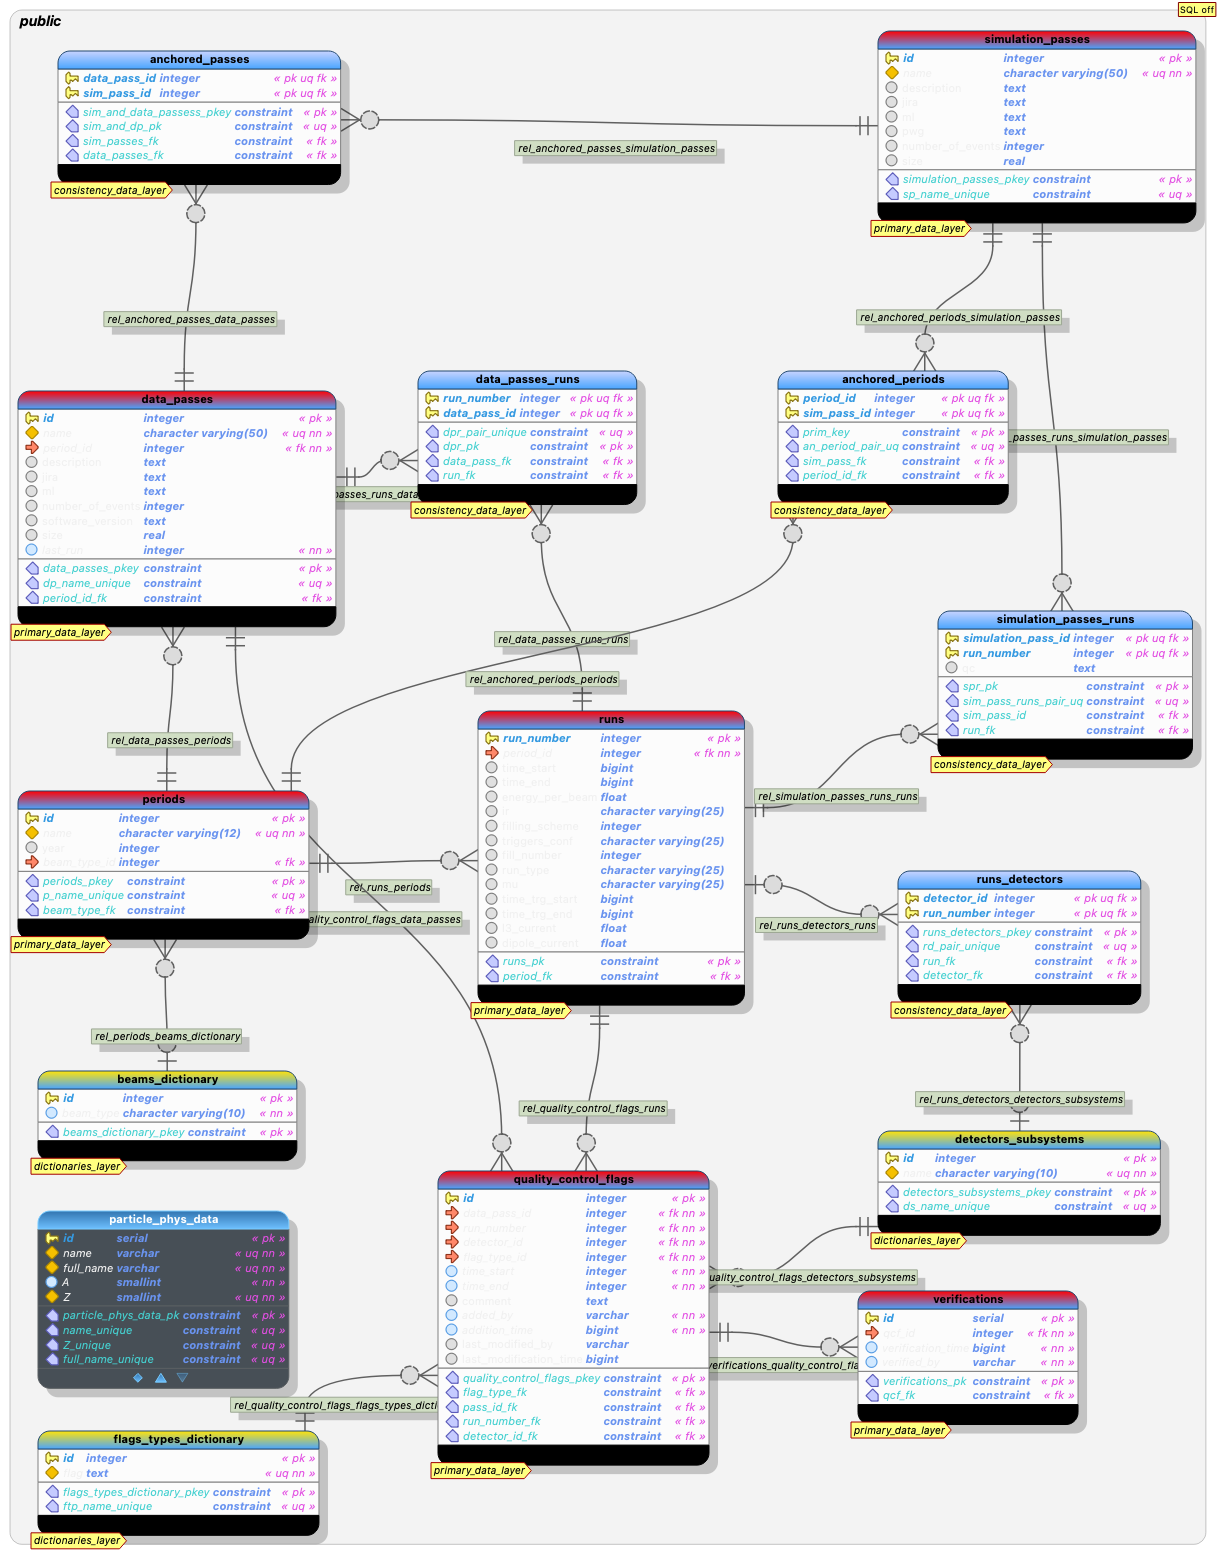
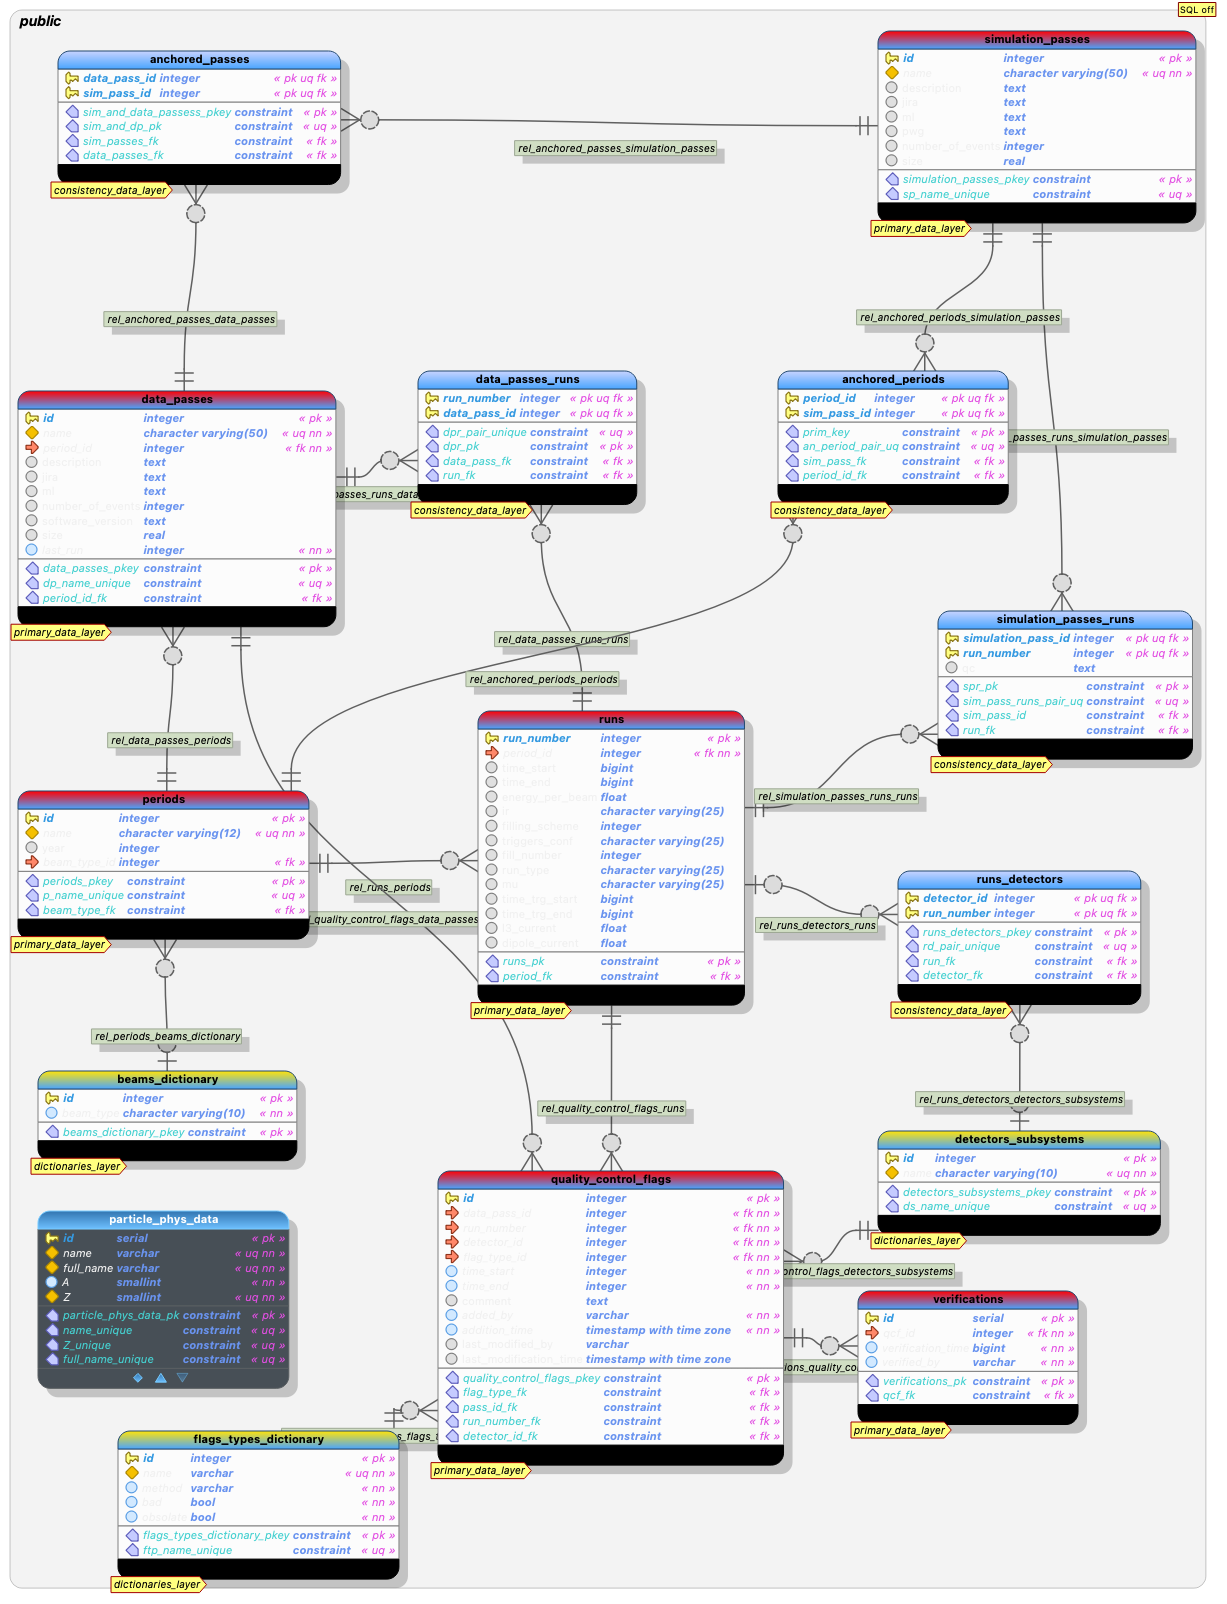
Qc backend (#111)

diff --git a/app/lib/database/procedures/flags.js b/app/lib/database/procedures/flags.js
@@ -1,0 +1,72 @@
+/**
+ * @license
+ * Copyright 2019-2020 CERN and copyright holders of ALICE O2.
+ * See http://alice-o2.web.cern.ch/copyright for details of the copyright holders.
+ * All rights not expressly granted are reserved.
+ *
+ * This software is distributed under the terms of the GNU General Public
+ * License v3 (GPL Version 3), copied verbatim in the file "COPYING".
+ *
+ * In applying this license CERN does not waive the privileges and immunities
+ * granted to it by virtue of its status as an Intergovernmental Organization
+ * or submit itself to any jurisdiction.
+ */
+
+const flag_insert = (query) => `
+    DO                            
+    $do$
+    DECLARE pass_id integer;
+    DECLARE det_id integer;
+    DECLARE flag_id integer;
+    BEGIN
+        select id into pass_id from data_passes where name = '${query.data_pass_name}';
+        select id into det_id from detectors_subsystems where name = '${query.detector}';
+        select id into flag_id from flags_types_dictionary where name = '${query.flag_type}';
+
+        INSERT INTO quality_control_flags (data_pass_id, run_number, detector_id, flag_type_id, 
+            time_start, time_end, comment, added_by, addition_time, last_modified_by, last_modification_time)
+        VALUES(pass_id, ${query.run_number}, det_id, flag_id, 
+            ${query.time_start}, ${query.time_end}, '${query.comment}', '${query.added_by}', now(), null, null);
+    END
+    $do$;
+`;
+
+const flag_update = (query) => {
+    return 'NOT IMPLEMENTED PLEASE REMOVE OLD FLAG INSTANCE';
+    `
+    DO                            
+    $do$
+    BEGIN
+        INSERT INTO quality_control_flags (data_pass_id, run_number, detector_id, flag_type_id, 
+            time_start, time_end, comment, added_by, addition_time, last_modified_by, last_modification_time)
+        VALUES(pass_id, ${query.run_number}, det_id, flag_id, 
+            ${query.time_start}, ${query.time_end}, '${query.comment}', '${query.added_by}', now(), null, null);
+    END
+    $do$;
+`;
+}
+const flag_delete = (query) => `
+    DO                            
+    $do$
+    BEGIN
+        DELETE FROM quality_control_flags where id = ${query.qcf_id};
+    END
+    $do$;
+`;
+
+const verification_insert = (query) => `
+DO                            
+$do$
+BEGIN
+    INSERT INTO verifications (qcf_id, verification_time, verified_by)
+    VALUES(${query.qcf_id}, now(), '${query.by}');
+END
+$do$;
+`;
+
+module.exports = {
+    flag_insert,
+    flag_delete,
+    flag_update,
+    verification_insert
+};

diff --git a/app/lib/database/DatabaseService.js b/app/lib/database/DatabaseService.js
@@ -149,8 +149,35 @@ class DatabaseService {
         }
 
         try {
-            const query = QueryBuilder.build(params);
+            const query = QueryBuilder.buildSelect(params);
             await this.pgExec(query, connectErrorHandler, dbResponseHandler, dbResErrorHandler);
+        } catch (e) {
+            this.logger.error(e.stack)
+            this.responseWithStatus(res, 400, e)
+        }
+    }
+
+
+    async pgExecDataInsert(req, res) {
+        this.checkToken(req, res);
+        const dbResponseHandler = (dbRes) => {
+            return res.json({data: dbRes})
+        }
+        const dbResErrorHandler = (e) => {
+            this.logger.error(e.message + ' :: ' + e.stack)
+            this.responseWithStatus(res, 500, e.code);
+        }
+        const connectErrorHandler = (connectErr) => {
+            this.logger.error('Error acquiring client:: ' + connectErr.stack)
+            this.responseWithStatus(res, 500, connectErr.message);
+        }
+        
+        try {
+            await this.pgExec(
+                QueryBuilder.buildInsert(params), 
+                connectErrorHandler, 
+                dbResponseHandler, 
+                dbResErrorHandler);
         } catch (e) {
             this.logger.error(e.stack)
             this.responseWithStatus(res, 400, e)

diff --git a/app/lib/database/views/flags_view.js b/app/lib/database/views/flags_view.js
@@ -12,11 +12,24 @@
  * or submit itself to any jurisdiction.
  */
 
-const flags_view = (query) => `
+const flags_view = (query) => {
+    
+    rn = query.run_numbers;
+    let rn_sql = null;
+    if (typeof(rn) === 'object') {
+        rn_sql = rn.join(",");
+    } else if (typeof(rn) === 'string') {
+        rn_sql = rn
+    } else {
+        throw `run_number seems to be incorrect ${rn}`
+    }
+    
+    return `
+    SELECT
         qcf.id, 
         qcf.time_start, 
         qcf.time_end, 
-        ftd.flag, 
+        ftd.name, 
         qcf.comment,
         r.run_number,
         ds.name,
@@ -36,10 +49,11 @@ const flags_view = (query) => `
         LEFT OUTER JOIN verifications as v
             ON qcf.id = v.qcf_id
 
-        WHERE r.run_number in (${query.run_numbers.join(",")}) AND 
-            dp.name = ${query.data_pass_id}
-        GROUP BY qcf.id, qcf.time_start, qcf.time_end, ftd.flag, qcf.comment, r.run_number, ds.name
+        WHERE r.run_number in (${rn_sql}) AND 
+            dp.name = ${query.data_pass_name}
+        GROUP BY qcf.id, qcf.time_start, qcf.time_end, ftd.name, qcf.comment, r.run_number, ds.name
 
     `;
+}
 
 module.exports = flags_view;

diff --git a/app/lib/database/QueryBuilder.js b/app/lib/database/QueryBuilder.js
@@ -13,8 +13,10 @@
  */
 
 const config = require('../config/configProvider.js');
-const views = require("./views") 
-const { pagesNames: PN } = config.public;
+const views = require('./views');
+const procedures = require('./procedures')
+
+const { pagesNames: PN, procedures: PC } = config.public;
 const DRP = config.public.dataReqParams;
 
 const pageToViewName = {};
@@ -82,7 +84,7 @@ class QueryBuilder {
         return sqlWhereClause?.length > 0 ? `WHERE ${sqlWhereClause}` : '';
     }
 
-    static build(params) {
+    static buildSelect(params) {
         
         const dataSubsetQueryPart = (params) => params[DRP.countRecords] === 'true' ? '' :
             `LIMIT ${params[DRP.rowsOnSite]} OFFSET ${params[DRP.rowsOnSite] * (params[DRP.site] - 1)}`;
@@ -113,6 +115,9 @@ class QueryBuilder {
                 ${dataSubsetQueryPart(params)};`;
     }
 
+    static buildInsertOrUpdate(params) {
+        return procedures[params.procedure](params)
+    }
 }
 
 module.exports = QueryBuilder;

diff --git a/app/config/databasePersistance.js b/app/config/databasePersistance.js
@@ -14,7 +14,7 @@
 /* eslint-disable max-len */
 
 const detectors = require('./detectors.js');
-
+const flags = require('./flagsDefinitions.json')
 const particle_phys_data = {
     p: {
         full_name: 'proton',
@@ -51,6 +51,11 @@ module.exports = {
             description: 'particles dict insert',
             query: Object.entries(particle_phys_data).map(([name, d]) => `INSERT INTO particle_phys_data("id", "name", "full_name", "A", "Z")
                     VALUES (DEFAULT, '${name}', '${d.full_name}', ${d.A}, ${d.Z});`),
+        },
+        flags: {
+            description: 'flags types dict insert',
+            query: flags.map((f) => `INSERT INTO flags_types_dictionary("id", "name", "method", "bad", "obsolate")
+                    VALUES (${f.id}, '${f.name}', '${f.method}', ${f.bad}::bool, ${f.obsolete}::bool);`),
         },
     },
 

diff --git a/app/config/public.js b/app/config/public.js
@@ -56,6 +56,7 @@ const mcViews = {
 
 module.exports = { // Properties that will be provided to frontend in the public folder
     roles: require('./roles.js'),
+    flagsTypes: require('./flagsDefinitions.json'),
     endpoints: {
         login: '/login/',
         logout: '/logout/',
@@ -95,6 +96,13 @@ module.exports = { // Properties that will be provided to frontend in the public
         runsPerPeriod: 'runsPerPeriod',
         runsPerDataPass: 'runsPerDataPass',
         flags: 'flags',
+    },
+
+    operationsNames: {
+        flag_insert: 'flags_insert',
+        flag_delete: 'flag_delete',
+        flag_update: 'flag_update',
+        verification_insert: 'verification_insert'
     },
 
     filteringParams: {

diff --git a/app/lib/database/procedures/index.js b/app/lib/database/procedures/index.js
@@ -1,0 +1,20 @@
+/**
+ * @license
+ * Copyright 2019-2020 CERN and copyright holders of ALICE O2.
+ * See http://alice-o2.web.cern.ch/copyright for details of the copyright holders.
+ * All rights not expressly granted are reserved.
+ *
+ * This software is distributed under the terms of the GNU General Public
+ * License v3 (GPL Version 3), copied verbatim in the file "COPYING".
+ *
+ * In applying this license CERN does not waive the privileges and immunities
+ * granted to it by virtue of its status as an Intergovernmental Organization
+ * or submit itself to any jurisdiction.
+ */
+
+
+const flags = require('./flags.js');
+
+module.exports = {
+    ...flags
+}
